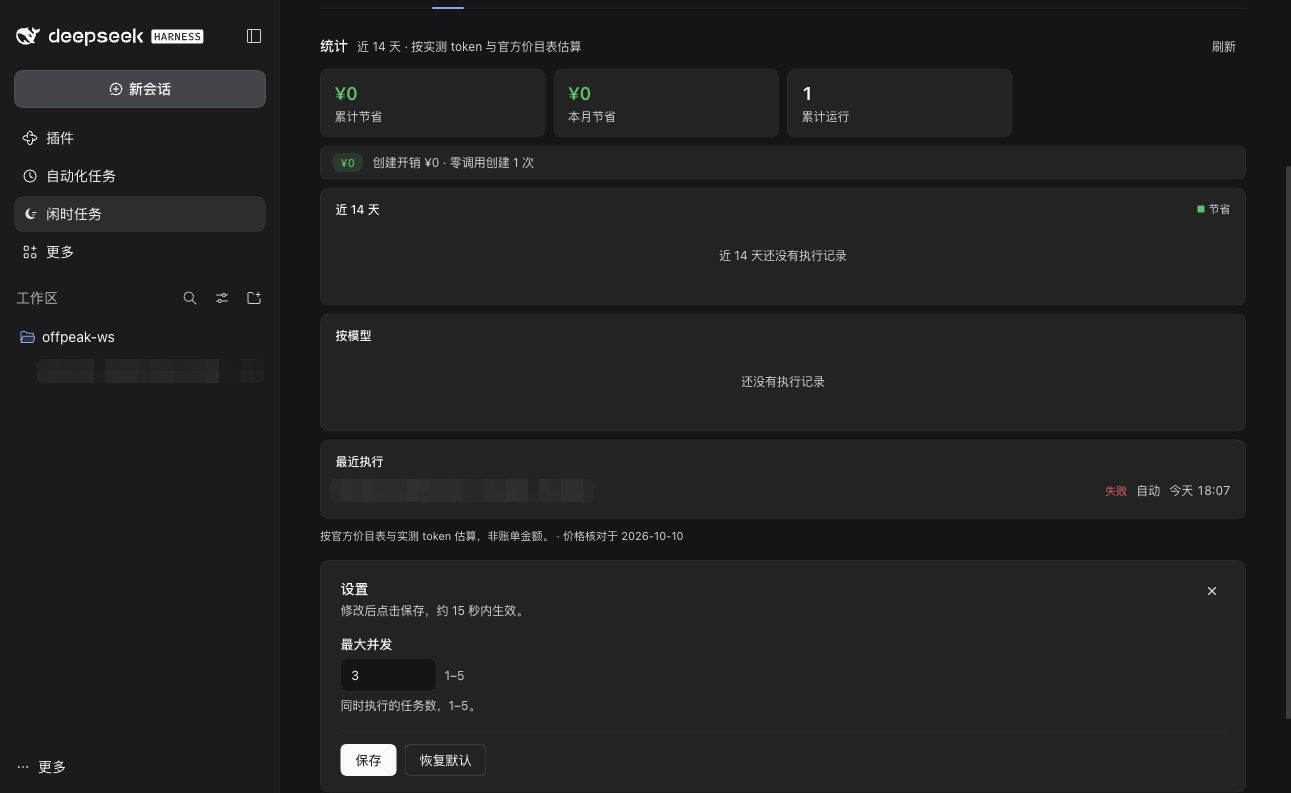
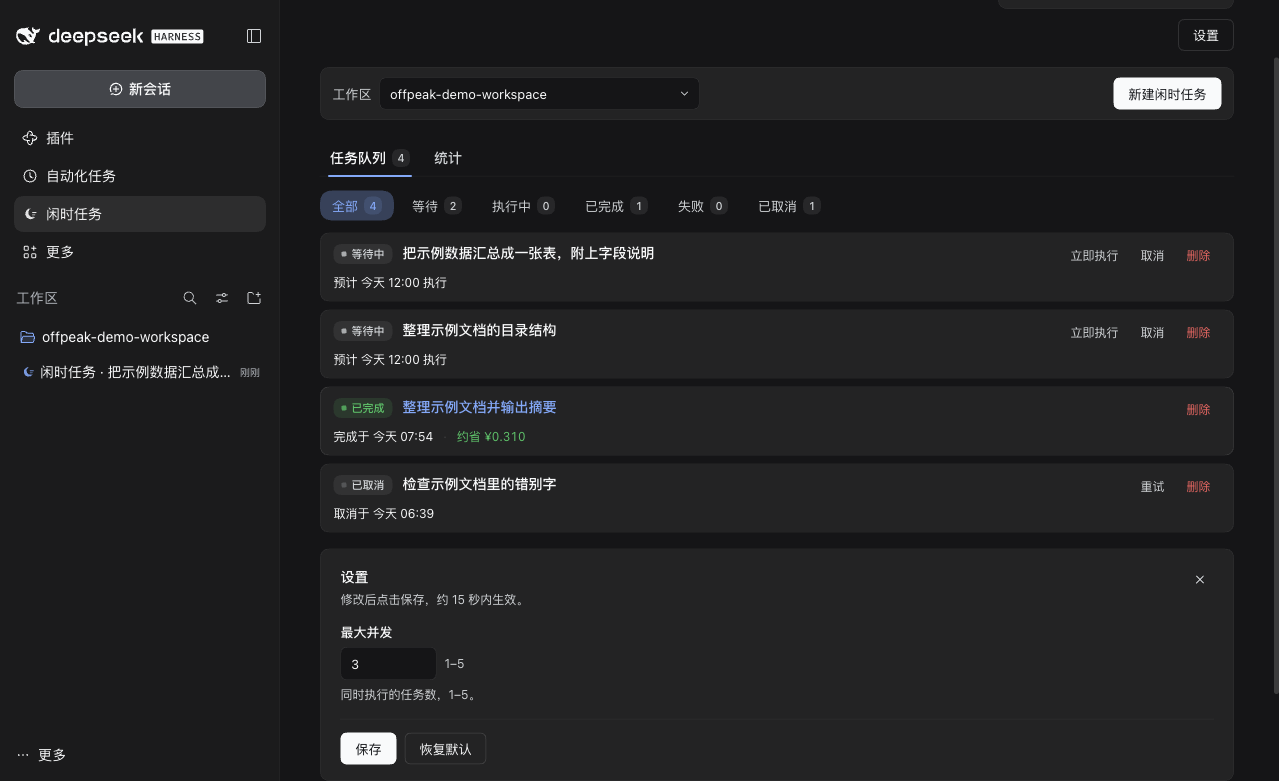
docs: screenshots and copy for the current tabbed queue UI
- Recapture the panel, stats, settings, composer chip and in-conversation
  task bar from the current build (6 status tabs: 全部/等待/执行中/已完成/
  失败/已取消).
- Drop the old captures that showed the previous 4-card layout.
- Trim the README: rely on the screenshots, drop the notes that explained
  the image pipeline.

diff --git a/README.md b/README.md
@@ -9,10 +9,7 @@
 >
 > **In one line:** a DSH plugin that lets you queue a task from any conversation with **zero model calls at queue time**, then runs it automatically in that same conversation during DeepSeek's off-peak (half-price) hours.
 
-![闲时任务面板](docs/screenshots/panel-dark.png)
-
-> 截图中的任务内容均已打码（mosaic）以避免泄露个人任务。  
-> Screenshots are redacted: task text, conversation content and workspace names are mosaicked.
+![闲时任务队列面板](docs/screenshots/panel-queue.png)
 
 ---
 
@@ -93,17 +90,11 @@ DSH="/Applications/DeepSeek Harness.app/Contents/Resources/runtime/cli/bin/dsh"
 4. 到闲时（半价时段）任务在同一条对话里自动执行，对话中出现一张「插件状态更新」触发卡（不是冒充用户发出的消息）。
 5. 侧栏「闲时任务」面板查看队列和省钱统计；面板图标上的绿点表示有任务完成且未查看，点任务标题可跳到来源对话。
 
-![输入框里的闲时任务标签](docs/screenshots/composer-chip.png)
+![输入框里的闲时任务标签](docs/screenshots/composer.png)
 
-![任务状态卡与立即执行](docs/screenshots/run-now.png)
+![对话里的任务条](docs/screenshots/task-bar.png)
 
 ## 截图
-
-> 所有截图中的任务内容、对话正文、会话标题与工作区名均已打码。
-
-| 面板（暗色） | 面板（亮色） |
-|---|---|
-| ![面板 暗色](docs/screenshots/panel-dark.png) | ![面板 亮色](docs/screenshots/panel-light.png) |
 
 | 统计 | 设置 |
 |---|---|
